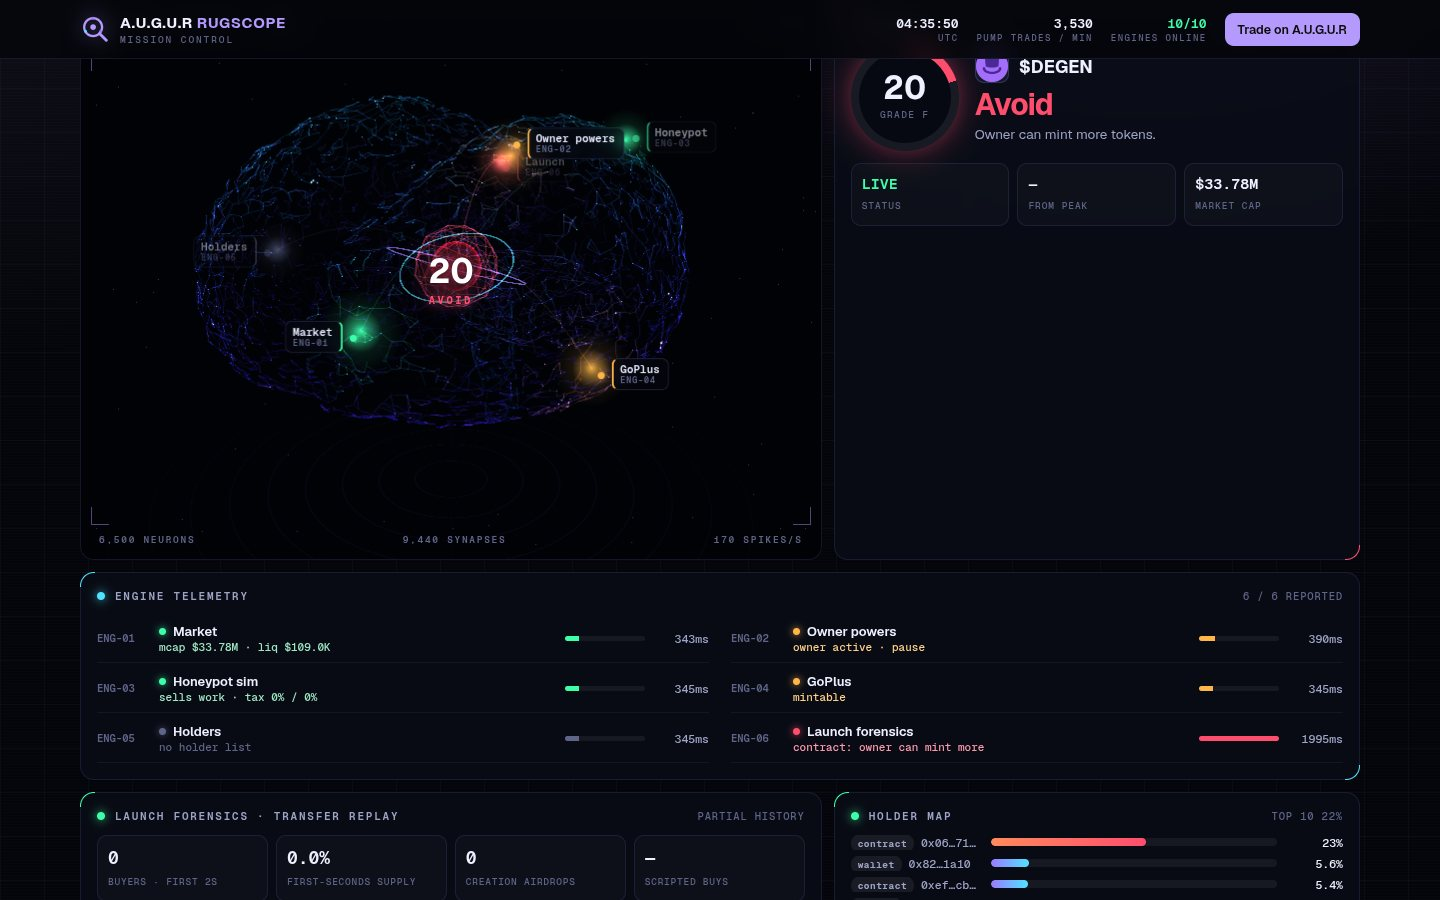
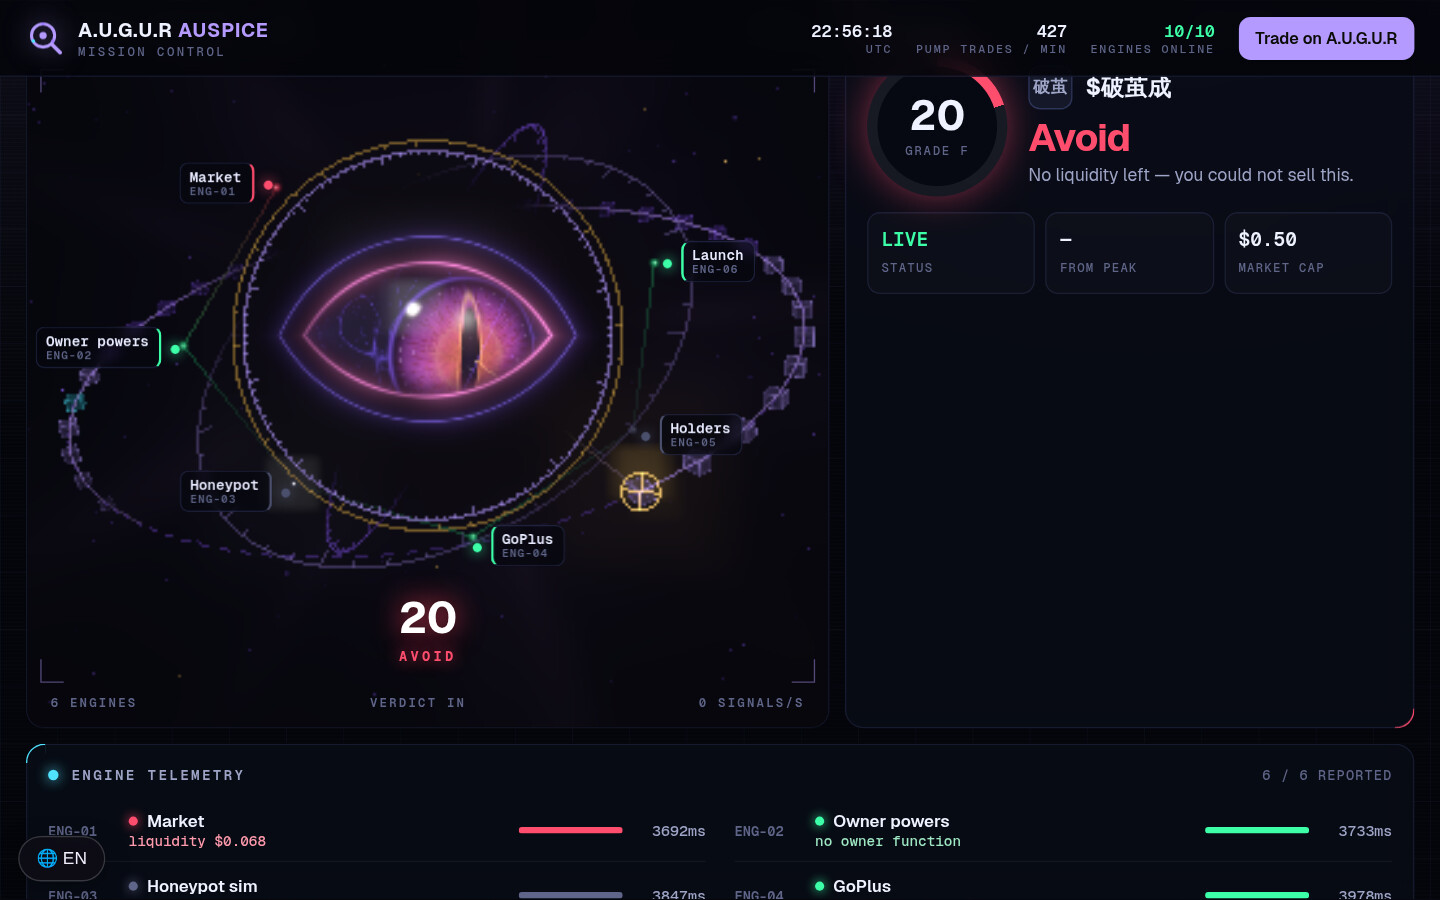
Replace stale Rugscope scan images with live Auspice (eye) captures; tidy engines tables

diff --git a/README.md b/README.md
@@ -44,18 +44,31 @@ range 12.7–32.3%, against a 19.4% base rate), and the reasons behind it.
 
 ## The engines
 
-| Solana | | EVM (13 chains) | |
-|---|---|---|---|
-| **Contract** | Solana RPC | **Market** | Dexscreener |
-| **Launch model** | our pump.fun tape | **Owner powers** | on-chain bytecode + calls |
-| **Token-2022** | Solana RPC | **Honeypot simulation** | on-chain simulation |
-| **Bundle forensics** | our tape + RugCheck | **GoPlus** | GoPlus Security |
-| **Jupiter** | Jupiter | **Holders** | on-chain |
-| **Dexscreener** | Dexscreener | **Launch forensics** | on-chain logs |
-| **Dev dossier** | pump.fun |  | |
-| **Tape flow** | our pump.fun tape |  | |
-| **Known wallets** | our caller + wallet index |  | |
-| **Probability model** | gradient-boosted model, our data |  | |
+**Solana — 10 engines**
+
+| Engine | Source |
+|---|---|
+| **Contract** | Solana RPC |
+| **Launch model** | our pump.fun tape |
+| **Token-2022** | Solana RPC |
+| **Bundle forensics** | our tape + RugCheck |
+| **Jupiter** | Jupiter |
+| **Dexscreener** | Dexscreener |
+| **Dev dossier** | pump.fun |
+| **Tape flow** | our pump.fun tape |
+| **Known wallets** | our caller + wallet index |
+| **Probability model** | gradient-boosted model, our data |
+
+**EVM — 13 chains, 6 engines**
+
+| Engine | Source |
+|---|---|
+| **Market** | Dexscreener |
+| **Owner powers** | on-chain bytecode + calls |
+| **Honeypot simulation** | on-chain simulation |
+| **GoPlus** | GoPlus Security |
+| **Holders** | on-chain |
+| **Launch forensics** | on-chain logs |
 
 What each one checks: [docs/engines.md](docs/engines.md). How the verdict is decided and the rug-guard rules: [docs/verdicts.md](docs/verdicts.md).
 
